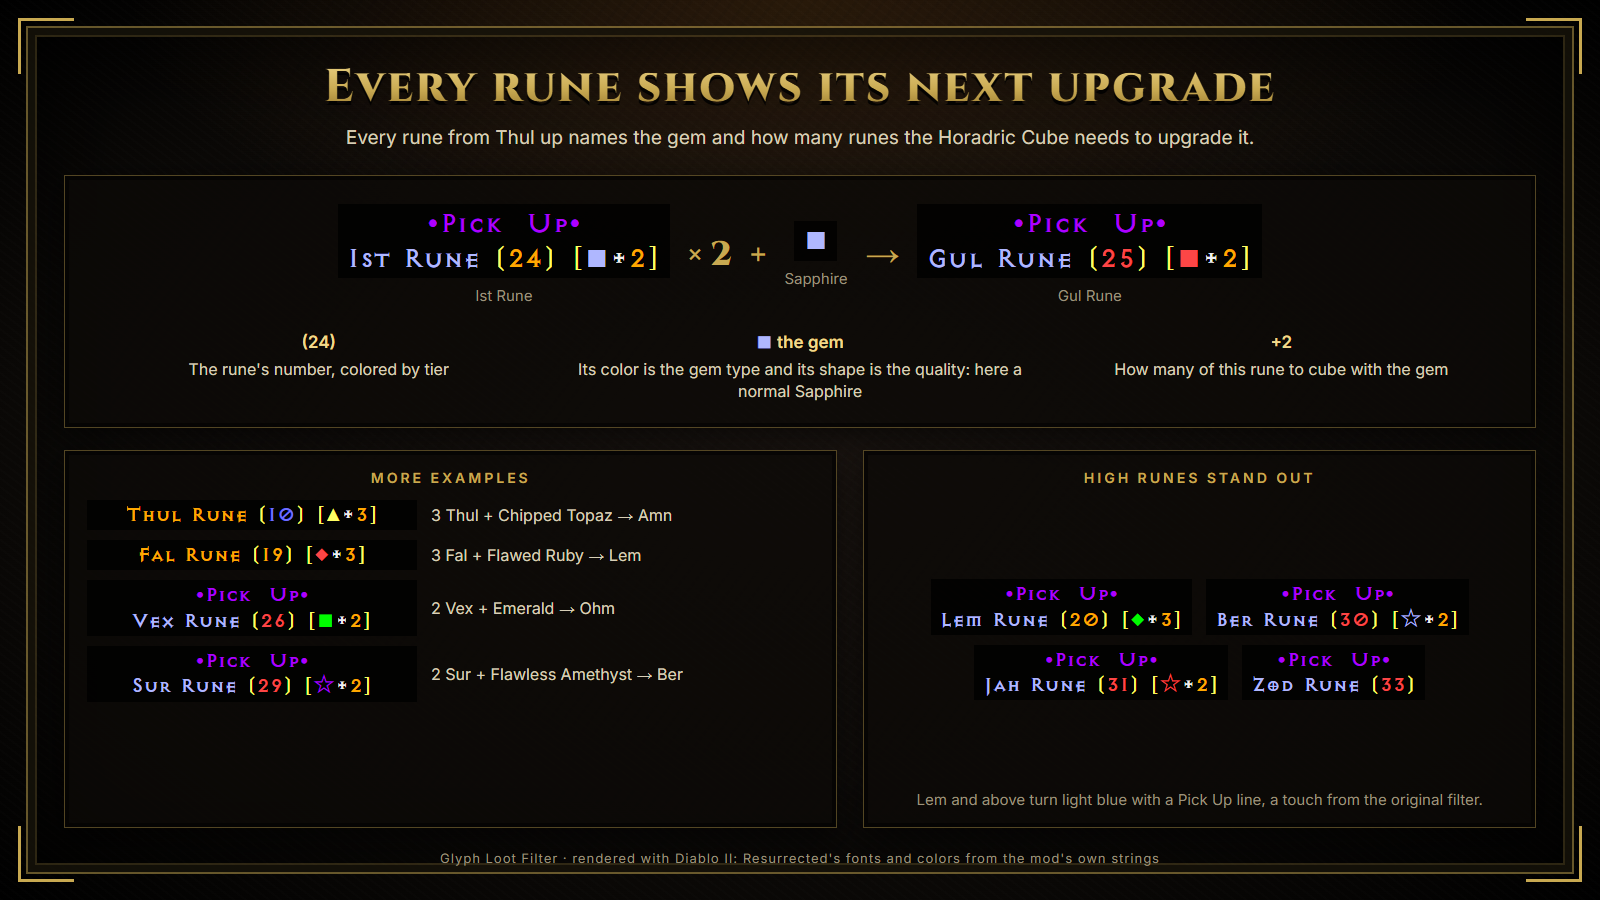
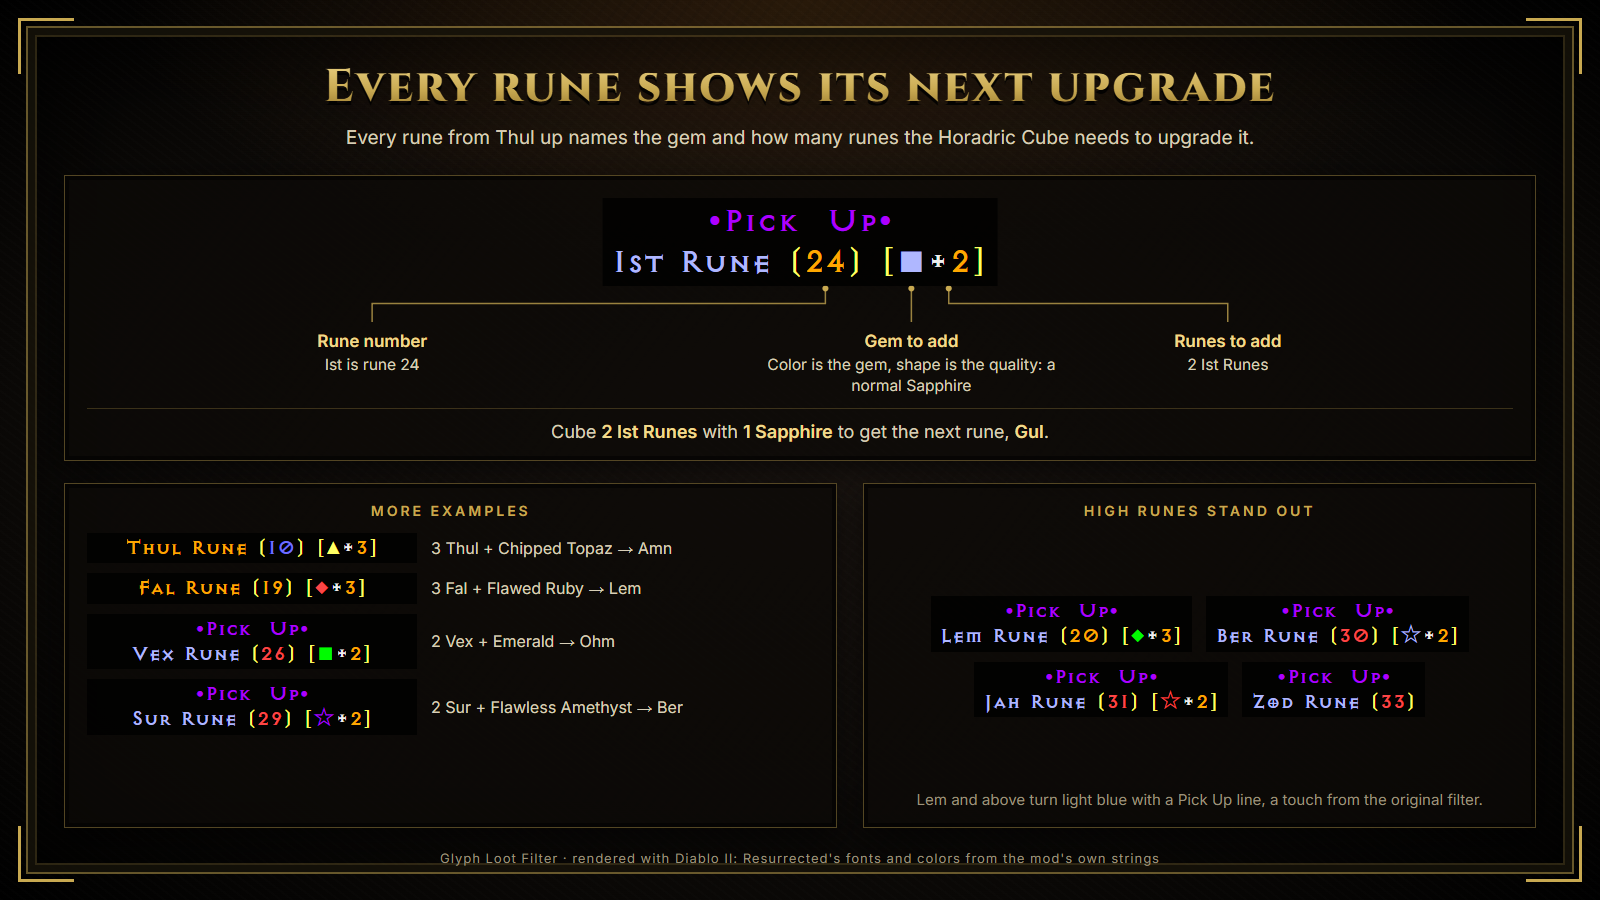
Explain rune labels with an annotated label instead of an equation

diff --git a/docs/features.html b/docs/features.html
@@ -81,15 +81,17 @@
   .wrapline { display: flex; flex-wrap: wrap; gap: 6px; }
 
   /* Runes */
-  .eq { display: flex; align-items: center; justify-content: center; gap: 18px; }
-  .eq .op { font-family: 'Cinzel', serif; font-weight: 800; font-size: 34px; color: var(--gold); }
-  .eq figure { display: flex; flex-direction: column; align-items: center; gap: 8px; }
-  .eq figcaption { font-size: 15px; color: var(--muted); }
-  .eq .d2 { font-size: 26px; }
-  .callouts { display: grid; grid-template-columns: repeat(3, 1fr); gap: 18px; }
-  .callouts div { text-align: center; font-size: 16px; line-height: 1.4; }
-  .callouts b { display: block; color: var(--gold-hi); font-weight: 600; font-size: 17px; margin-bottom: 3px; }
-  .callouts .d2 { font-size: 20px; }
+  /* Annotated rune label: leader lines run from each part of the label to its callout */
+  .anno { position: relative; height: 196px; }
+  .annolabel { position: absolute; top: 0; left: 50%; transform: translateX(-50%); }
+  .annolabel .d2 { font-size: 36px; }
+  .leaders { position: absolute; inset: 0; width: 100%; height: 100%; overflow: visible; }
+  .leaders path { fill: none; stroke: var(--gold); stroke-width: 1.5; opacity: .75; }
+  .leaders circle { fill: var(--gold); }
+  .callout { position: absolute; top: 132px; width: 300px; transform: translateX(-50%); text-align: center; font-size: 15.5px; line-height: 1.35; }
+  .callout b { display: block; color: var(--gold-hi); font-weight: 600; font-size: 17px; margin-bottom: 2px; }
+  .reading { text-align: center; font-size: 18px; margin-top: 14px; padding-top: 12px; border-top: 1px solid rgba(200,169,81,.25); }
+  .reading b { color: var(--gold-hi); font-weight: 600; }
 
   /* Tooltip */
   .tooltip { align-self: center; background: rgba(0,0,0,.9); border: 1px solid #444; padding: 14px 26px; text-align: center; }
@@ -130,13 +132,15 @@
   <section class="scene" id="runes">
     <h1>Every rune shows its next upgrade</h1>
     <p class="lede">Every rune from Thul up names the gem and how many runes the Horadric Cube needs to upgrade it.</p>
-    <div class="panel" style="padding:28px 22px 24px; gap:26px">
-      <div class="eq" id="runeEq"></div>
-      <div class="callouts">
-        <div><b>(24)</b>The rune's number, colored by tier</div>
-        <div><b><span class="d2" id="gemKey"></span> the gem</b>Its color is the gem type and its shape is the quality: here a normal Sapphire</div>
-        <div><b>+2</b>How many of this rune to cube with the gem</div>
+    <div class="panel" style="padding:22px 22px 18px">
+      <div class="anno" id="anno">
+        <svg class="leaders" id="leaders"></svg>
+        <div class="annolabel" id="annoLabel"></div>
+        <div class="callout" data-part="pNum"><b>Rune number</b>Ist is rune 24</div>
+        <div class="callout" data-part="pGem"><b>Gem to add</b>Color is the gem, shape is the quality: a normal Sapphire</div>
+        <div class="callout" data-part="pCount"><b>Runes to add</b>2 Ist Runes</div>
       </div>
+      <p class="reading">Cube <b>2 Ist Runes</b> with <b>1 Sapphire</b> to get the next rune, <b>Gul</b>.</p>
     </div>
     <div class="versus" style="margin-top:22px; grid-template-columns: 1.15fr 1fr">
       <div class="panel">
@@ -272,13 +276,34 @@
   $('lootAfter').innerHTML = loot.map(([, , t, c]) => label(t, c, 25)).join('');
 
   // ---- Runes
-  const fig = (html, cap) => `<figure>${html}<figcaption>${cap}</figcaption></figure>`;
-  $('runeEq').innerHTML = [
-    fig(label(M.r24, ORANGE, 30), 'Ist Rune'), '<span class="op">× 2</span>', '<span class="op">+</span>',
-    fig(label(M.gsb, W, 30), 'Sapphire'), '<span class="op">→</span>',
-    fig(label(M.r25, ORANGE, 30), 'Gul Rune'),
-  ].join('');
-  $('gemKey').innerHTML = line(M.gsb, W);
+  // M.r24 split into the parts the callouts point at; colors match the ÿc codes in the string
+  const seg = (text, color, id) => `<span style="color:${color}"${id ? ` id="${id}"` : ''}>${esc(text)}</span>`;
+  $('annoLabel').innerHTML = `<span class="label d2">` +
+    `<div>${seg('•Pick  Up•', 'var(--cPurple)')}</div>` +
+    `<div>${seg('Ist Rune ', 'var(--cU)')}<span id="pNum">${seg('(', 'var(--c9)')}${seg('24', 'var(--c8)')}${seg(')', 'var(--c9)')}</span>` +
+    `${seg(' [', 'var(--c9)')}${seg('■', 'var(--cU)', 'pGem')}<span id="pCount">${seg('+', 'var(--c0)')}${seg('2', 'var(--c8)')}</span>${seg(']', 'var(--c9)')}</div>` +
+    `</span>`;
+
+  // The gem callout sits straight below the gem; the outer two fan out left and right,
+  // so no two leaders share a horizontal run
+  function drawLeaders() {
+    const box = $('anno').getBoundingClientRect();
+    const callouts = [...document.querySelectorAll('#anno .callout')];
+    const center = (id) => { const r = $(id).getBoundingClientRect(); return r.left + r.width / 2 - box.left; };
+    const slots = { pNum: box.width * 0.2, pGem: center('pGem'), pCount: box.width * 0.8 };
+    let paths = '';
+    callouts.forEach((c) => {
+      c.style.left = `${slots[c.dataset.part]}px`;
+      const part = $(c.dataset.part).getBoundingClientRect();
+      const cb = c.getBoundingClientRect();
+      const x1 = part.left + part.width / 2 - box.left, y1 = part.bottom - box.top + 6;
+      const x2 = cb.left + cb.width / 2 - box.left, y2 = cb.top - box.top - 8;
+      const mid = y1 + (y2 - y1) * 0.45;
+      paths += `<circle cx="${x1}" cy="${y1}" r="3"/><path d="M${x1} ${y1} V${mid} H${x2} V${y2}"/>`;
+    });
+    $('leaders').innerHTML = paths;
+  }
+  document.fonts.ready.then(drawLeaders);
   const ex = [
     [M.r10, '3 Thul + Chipped Topaz → Amn'],
     [M.r19, '3 Fal + Flawed Ruby → Lem'],
